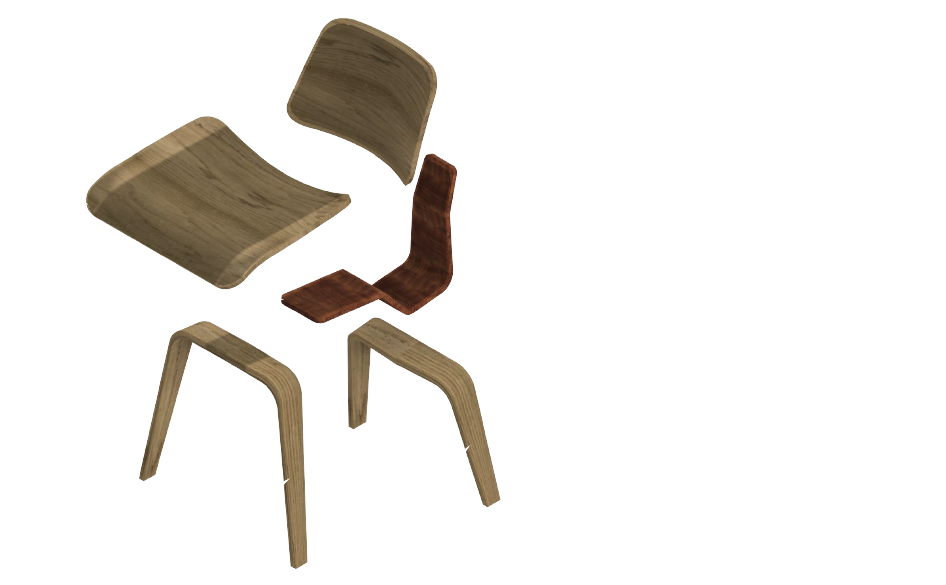
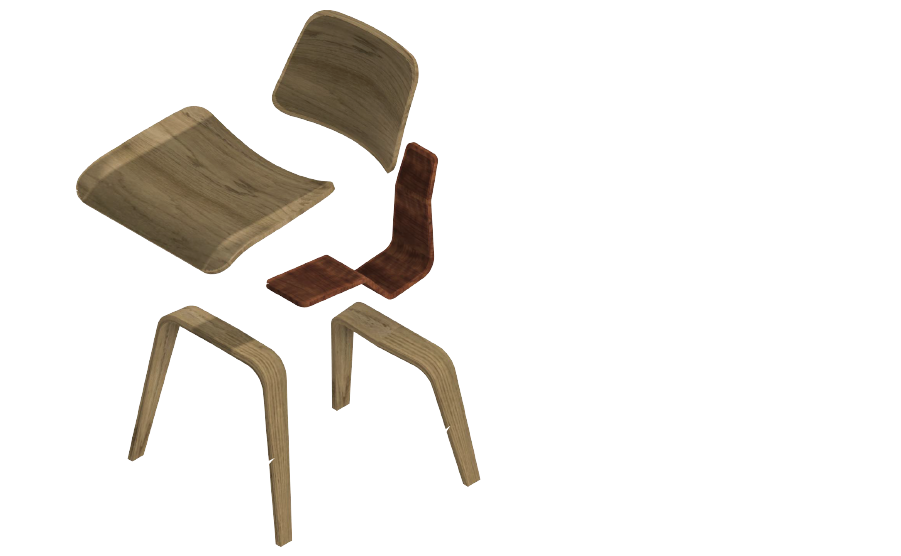
Entrega_1
Duplique una seccion y subi imagenes editadas tipo png

diff --git a/sitioweb/content/docs/Entrega 1/index.md b/sitioweb/content/docs/Entrega 1/index.md
@@ -1,0 +1,23 @@
+---
+title: 'Entrega 1'
+date: 2020-06-17T19:30:08+10:00
+draft: false
+weight: 4
+summary: Video Tutoriales del módulo de planimetrías en Fusion 360.
+---
+
+Aqui podemos ver las imagenes de planimetria que realizamos la clase 2, dichas imagenes estan editadas en Ai. 
+
+---
+
+## Imagenes:
+
+Imagenes editadas
+
+![Planimetria_1](/img/planimetrias_clase2/1.png)
+![Planimetria_2](/img/planimetrias_clase2/2.png)
+![Planimetria_3](/img/planimetrias_clase2/3.png)
+![Planimetria_4](/img/planimetrias_clase2/4.png)
+![Planimetria_5](/img/planimetrias_clase2/5.png)
+
+{{< gallery dir="/img/planimetrias_clase2/" />}} {{< load-photoswipe >}}

diff --git a/sitioweb/content/docs/tutoriales-planimetrías/index.md b/sitioweb/content/docs/tutoriales-planimetrías/index.md
@@ -16,12 +16,3 @@ Tutorial del uso del espacio de Drawings de Fusion 360
 
 {{< video-local src="http://pgarreton.com/pgarreton.com/mid2020/planimetria.mp4" >}}
 
-Planimetría trabajada en Illustrator exportada en PNG con fondo transparente.
-
-![PDF1](/img/planimetrias_clase2/1.png)
-![PDF2](/img/planimetrias_clase2/2.png)
-![PDF3](/img/planimetrias_clase2/3.png)
-![PDF4](/img/planimetrias_clase2/4.png)
-![PDF5](/img/planimetrias_clase2/5.png)
-
-{{< gallery dir="/img/planimetrias_clase2/" />}} {{< load-photoswipe >}}
